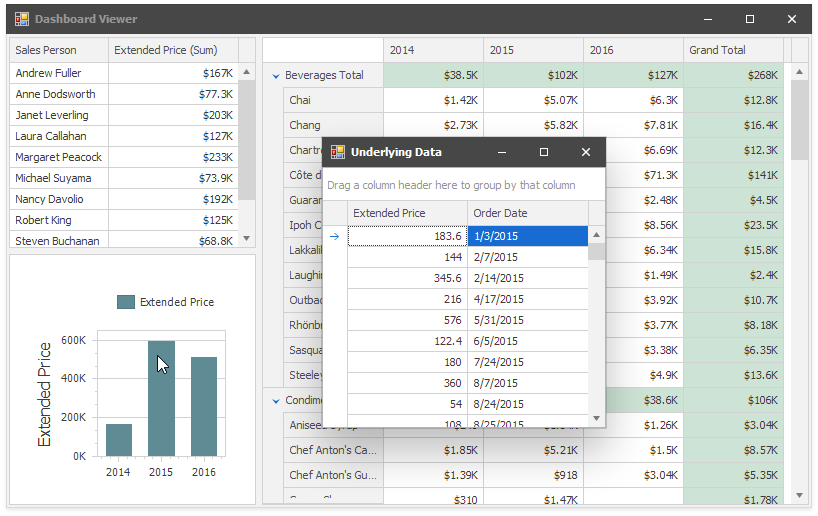
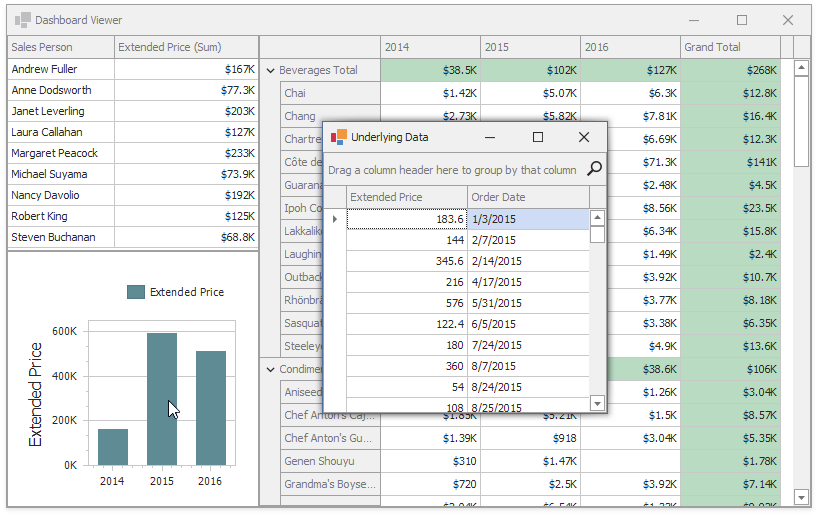
update 19.2

diff --git a/CS/Dashboard_UnderlyingDataWin/Form1.Designer.cs b/CS/Dashboard_UnderlyingDataWin/Form1.Designer.cs
@@ -30,13 +30,13 @@
             // 
             // dashboardViewer1
             // 
-            this.dashboardViewer1.Appearance.BackColor = System.Drawing.Color.FromArgb(((int)(((byte)(242)))), ((int)(((byte)(242)))), ((int)(((byte)(242)))));
+            this.dashboardViewer1.Appearance.BackColor = System.Drawing.Color.FromArgb(((int)(((byte)(160)))), ((int)(((byte)(160)))), ((int)(((byte)(160)))));
             this.dashboardViewer1.Appearance.Options.UseBackColor = true;
             this.dashboardViewer1.DashboardSource = "Dashboard_UnderlyingDataWin.SalesDashboard";
             this.dashboardViewer1.Dock = System.Windows.Forms.DockStyle.Fill;
             this.dashboardViewer1.Location = new System.Drawing.Point(0, 0);
             this.dashboardViewer1.Name = "dashboardViewer1";
-            this.dashboardViewer1.Size = new System.Drawing.Size(806, 474);
+            this.dashboardViewer1.Size = new System.Drawing.Size(804, 472);
             this.dashboardViewer1.TabIndex = 0;
             this.dashboardViewer1.DashboardItemDoubleClick += new DevExpress.DashboardWin.DashboardItemMouseActionEventHandler(this.dashboardViewer1_DashboardItemDoubleClick);
             // 
@@ -44,7 +44,7 @@
             // 
             this.AutoScaleDimensions = new System.Drawing.SizeF(6F, 13F);
             this.AutoScaleMode = System.Windows.Forms.AutoScaleMode.Font;
-            this.ClientSize = new System.Drawing.Size(806, 474);
+            this.ClientSize = new System.Drawing.Size(804, 472);
             this.Controls.Add(this.dashboardViewer1);
             this.Name = "Form1";
             this.Text = "Dashboard Viewer";

diff --git a/Readme.md b/Readme.md
@@ -10,5 +10,6 @@ This example demonstrates how to display the underlying data when an end-user do
 
 ![screenshot](/images/screenshot.png)
 
+The example handles the [DashboardItem.DoubleClick](https://docs.devexpress.com/Dashboard/DevExpress.DashboardWin.DashboardViewer.DashboardItemDoubleClick) event, calls the [e.GetUnderlyingData](https://docs.devexpress.com/Dashboard/DevExpress.DashboardWin.DashboardItemMouseHitTestEventArgs.GetUnderlyingData) method to retrieve records from the dashboard item's data source and invokes a form with the Grid control that displays the data.
 
-Handle the [DashboardItem.DoubleClick](https://docs.devexpress.com/Dashboard/DevExpress.DashboardWin.DashboardViewer.DashboardItemDoubleClick) event. Call the [e.GetUnderlyingData](https://docs.devexpress.com/Dashboard/DevExpress.DashboardWin.DashboardItemMouseHitTestEventArgs.GetUnderlyingData) method to retrieve records from the dashboard item's data source. Invoke a form with the Grid control that displays the data.
+> Starting with v19.2 you can use the built-in [Data Inspector](https://docs.devexpress.com/Dashboard/401194/common-features/underlying-and-displayed-data/data-inspector?v=19.2) to display the underlying data.
